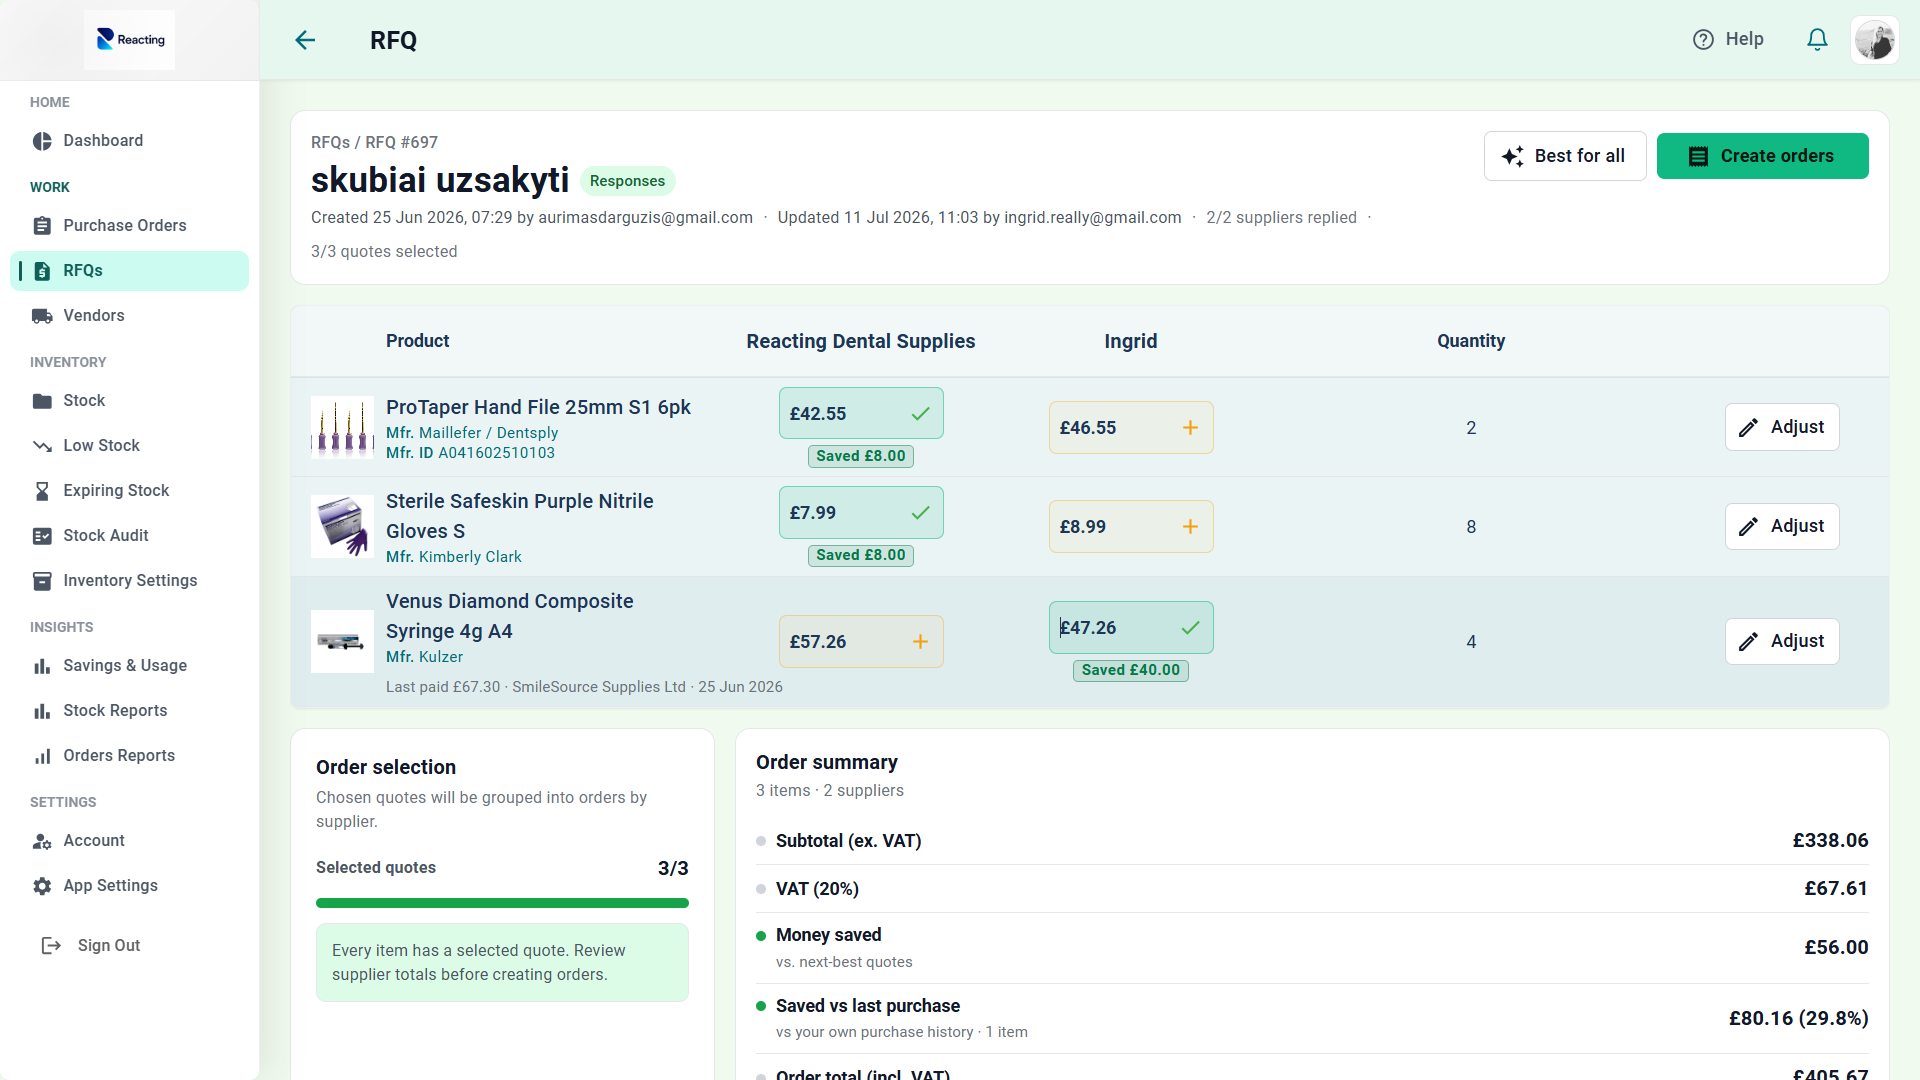
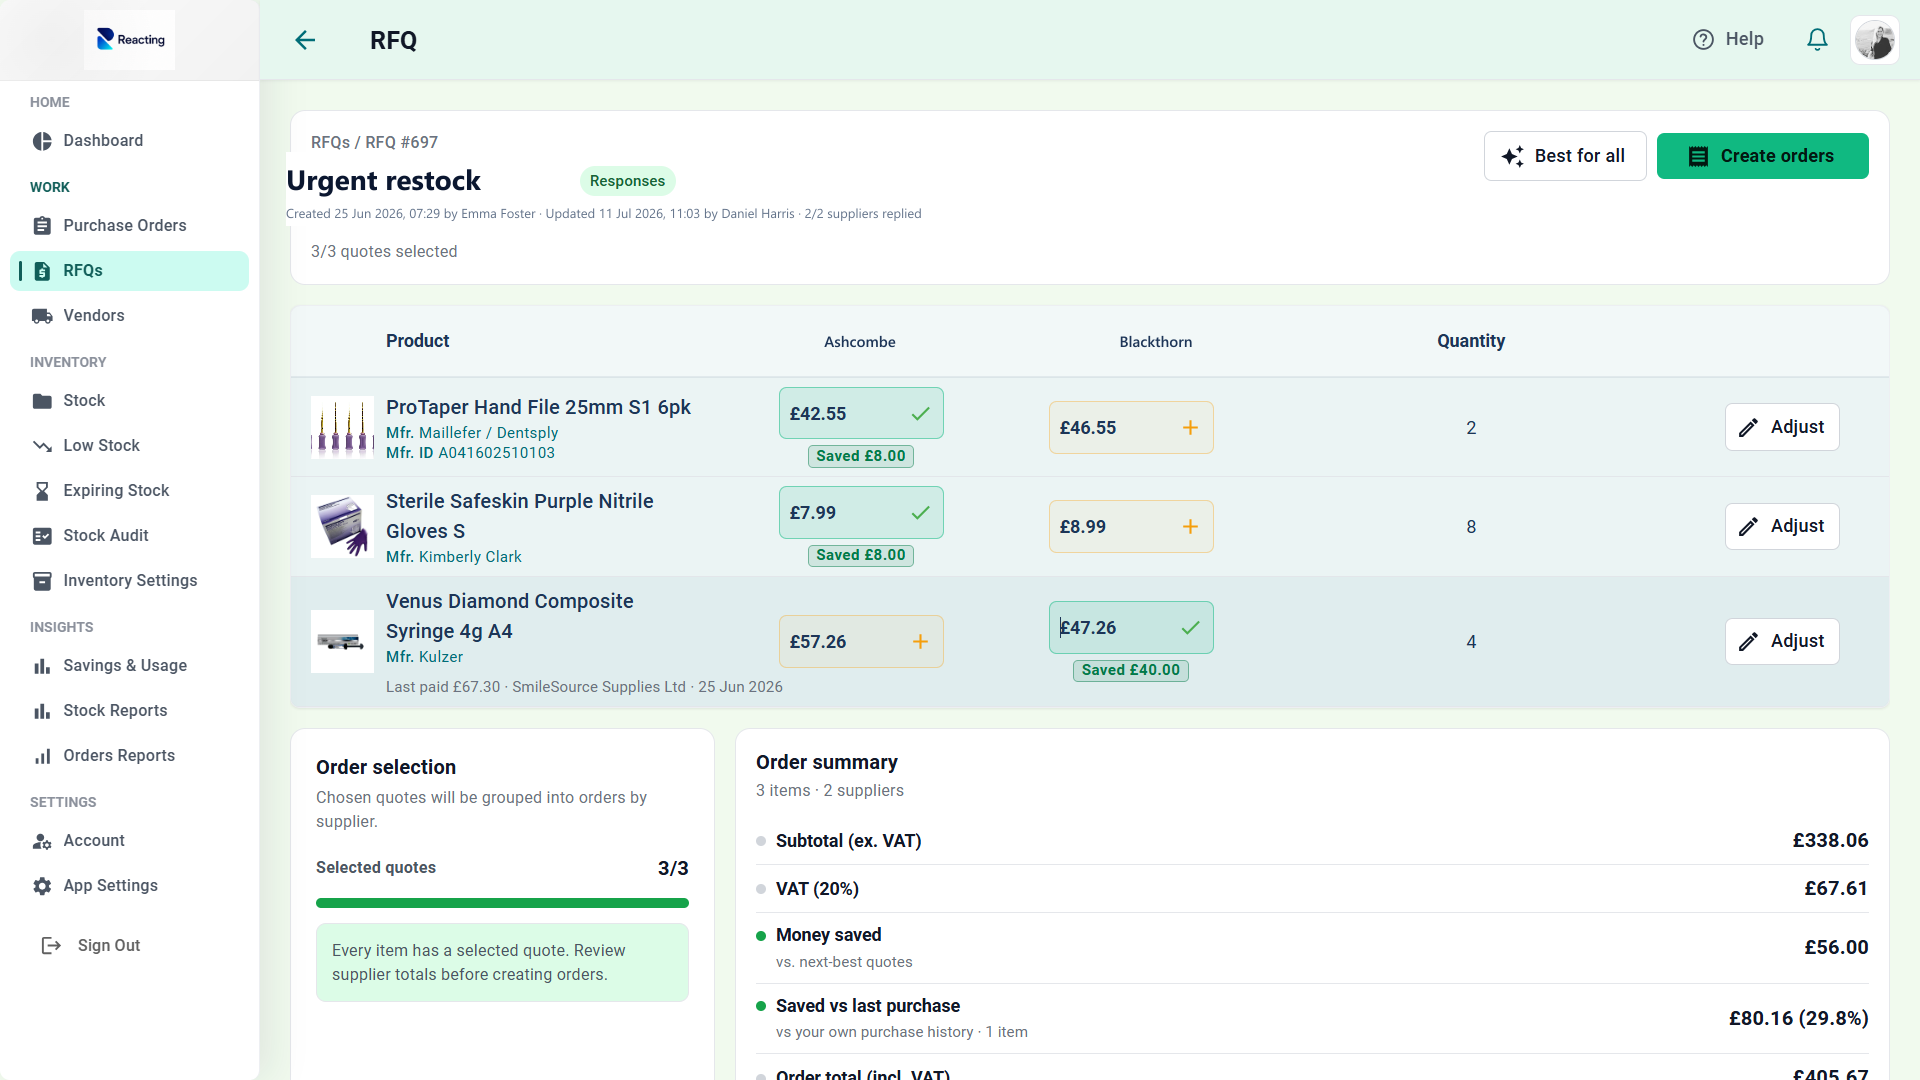
launch: final pre-publish corrections and lead delivery readiness

Changed region(s): [[0.1562, 0.1528, 0.7188, 0.2139], [0.375, 0.3056, 0.5, 0.3361], [0.5625, 0.3056, 0.625, 0.3361]]

diff --git a/src/lib/leads/selftest.ts b/src/lib/leads/selftest.ts
@@ -6,7 +6,14 @@ import assert from "node:assert/strict";
 import { composeLeadEmail, sanitizeHeader } from "./compose.ts";
 import { MIN_SUBMIT_MS } from "./constants.ts";
 import { readLeadConfig, readServerSecret } from "./env.ts";
-import { isHoneypotFilled, isImplausibleSubmitTime, processLead, type LeadDeps } from "./processLead.ts";
+import {
+  isHoneypotFilled,
+  isImplausibleSubmitTime,
+  processLead,
+  type LeadDeps,
+  type LeadResult,
+  type LeadResultCode,
+} from "./processLead.ts";
 import { leadInputSchema } from "./schema.ts";
 
 const now = 1_700_000_000_000;
@@ -54,46 +61,54 @@ const contact = {
   startedAt: now - 5_000,
 };
 
+function failCode(result: LeadResult): LeadResultCode {
+  assert.equal(result.ok, false);
+  if (result.ok) throw new Error("expected failure");
+  return result.code;
+}
+
 async function run() {
   assert.equal((await processLead(bookDemo, deps())).ok, true, "valid book demo");
   assert.equal((await processLead(contact, deps())).ok, true, "valid contact");
 
   assert.equal((await processLead({ ...bookDemo, email: "not-an-email" }, deps())).ok, false);
-  assert.equal((await processLead({ ...bookDemo, firstName: "" }, deps())).code, "validation");
-  assert.equal((await processLead({ ...contact, message: "" }, deps())).code, "validation");
+  assert.equal(failCode(await processLead({ ...bookDemo, firstName: "" }, deps())), "validation");
+  assert.equal(failCode(await processLead({ ...contact, message: "" }, deps())), "validation");
   assert.equal(
-    (await processLead({ ...bookDemo, firstName: "x".repeat(200) }, deps())).code,
+    failCode(await processLead({ ...bookDemo, firstName: "x".repeat(200) }, deps())),
     "validation",
   );
 
   assert.equal(isHoneypotFilled("http://spam.test"), true);
-  assert.equal((await processLead({ ...bookDemo, honeypot: "bot" }, deps())).code, "spam");
+  assert.equal(failCode(await processLead({ ...bookDemo, honeypot: "bot" }, deps())), "spam");
 
   assert.equal(isImplausibleSubmitTime(now - 10, now), true);
   assert.equal(isImplausibleSubmitTime(now - MIN_SUBMIT_MS - 1, now), false);
-  assert.equal((await processLead({ ...bookDemo, startedAt: now }, deps())).code, "spam");
+  assert.equal(failCode(await processLead({ ...bookDemo, startedAt: now }, deps())), "spam");
 
   assert.equal(
-    (await processLead(bookDemo, deps({ verifyTurnstile: async () => false }))).code,
+    failCode(await processLead(bookDemo, deps({ verifyTurnstile: async () => false }))),
     "turnstile",
   );
   assert.equal(
-    (await processLead(bookDemo, deps({ readConfig: () => ({ ok: false, missing: ["RESEND_API_KEY"] }) }))).code,
+    failCode(await processLead(bookDemo, deps({ readConfig: () => ({ ok: false, missing: ["RESEND_API_KEY"] }) }))),
     "config",
   );
   assert.equal(
-    (await processLead(
-      bookDemo,
-      deps({
-        readConfig: () => ({
-          ok: false,
-          missing: ["TURNSTILE_SECRET_KEY"],
+    failCode(
+      await processLead(
+        bookDemo,
+        deps({
+          readConfig: () => ({
+            ok: false,
+            missing: ["TURNSTILE_SECRET_KEY"],
+          }),
         }),
-      }),
-    )).code,
+      ),
+    ),
     "config",
   );
-  assert.equal((await processLead(bookDemo, deps({ sendEmail: async () => ({ ok: false }) }))).code, "delivery");
+  assert.equal(failCode(await processLead(bookDemo, deps({ sendEmail: async () => ({ ok: false }) }))), "delivery");
 
   const names = ["RESEND_API_KEY", "LEAD_FROM", "LEAD_TO", "TURNSTILE_SECRET_KEY"] as const;
   const previousProcess = Object.fromEntries(names.map((name) => [name, process.env[name]]));
@@ -146,7 +161,7 @@ async function run() {
       },
     }),
   );
-  assert.equal(blocked.code, "config");
+  assert.equal(failCode(blocked), "config");
   assert.equal(configBlocked, false);
 
   const order: string[] = [];

diff --git a/src/server.ts b/src/server.ts
@@ -37,9 +37,40 @@ async function normalizeCatastrophicSsrResponse(response: Response): Promise<Res
   });
 }
 
+const APEX_HOST = "reacting.io";
+const CANONICAL_HOST = "www.reacting.io";
+
+function canonicalHostRedirect(request: Request): Response | null {
+  const incoming = new URL(request.url);
+  const host = (request.headers.get("host") ?? incoming.hostname)
+    .split(":")[0]
+    .toLowerCase();
+
+  const isApex = host === APEX_HOST;
+  const isLegacyDe = incoming.pathname === "/de" || incoming.pathname === "/de/";
+
+  if (!isApex && !isLegacyDe) return null;
+
+  const dest = new URL(incoming.href);
+  if (isApex) {
+    dest.protocol = "https:";
+    dest.hostname = CANONICAL_HOST;
+    dest.port = "";
+  }
+  if (isLegacyDe) {
+    dest.pathname = "/";
+  }
+
+  if (dest.href === incoming.href) return null;
+  return Response.redirect(dest.href, 301);
+}
+
 export default {
   async fetch(request: Request, env: unknown, ctx: unknown) {
     try {
+      const redirected = canonicalHostRedirect(request);
+      if (redirected) return redirected;
+
       const handler = await getServerEntry();
       const response = await handler.fetch(request, env, ctx);
       return await normalizeCatastrophicSsrResponse(response);

diff --git a/src/lib/leads/turnstile.ts b/src/lib/leads/turnstile.ts
@@ -1,5 +1,9 @@
+const TURNSTILE_TIMEOUT_MS = 8_000;
+
 export async function verifyTurnstileToken(token: string, secret: string): Promise<boolean> {
   if (!token || !secret) return false;
+  const controller = new AbortController();
+  const timer = setTimeout(() => controller.abort(), TURNSTILE_TIMEOUT_MS);
   try {
     const body = new URLSearchParams();
     body.set("secret", secret);
@@ -7,6 +11,7 @@ export async function verifyTurnstileToken(token: string, secret: string): Promi
     const response = await fetch("https://challenges.cloudflare.com/turnstile/v0/siteverify", {
       method: "POST",
       headers: { "content-type": "application/x-www-form-urlencoded" },
+      signal: controller.signal,
       body,
     });
     if (!response.ok) return false;
@@ -14,5 +19,7 @@ export async function verifyTurnstileToken(token: string, secret: string): Promi
     return payload.success === true;
   } catch {
     return false;
+  } finally {
+    clearTimeout(timer);
   }
 }

diff --git a/src/lib/leads/resend.ts b/src/lib/leads/resend.ts
@@ -1,3 +1,5 @@
+const RESEND_TIMEOUT_MS = 12_000;
+
 export async function sendResendEmail(args: {
   apiKey: string;
   from: string;
@@ -7,6 +9,8 @@ export async function sendResendEmail(args: {
   text: string;
   html: string;
 }): Promise<{ ok: true } | { ok: false }> {
+  const controller = new AbortController();
+  const timer = setTimeout(() => controller.abort(), RESEND_TIMEOUT_MS);
   try {
     const response = await fetch("https://api.resend.com/emails", {
       method: "POST",
@@ -14,6 +18,7 @@ export async function sendResendEmail(args: {
         authorization: `Bearer ${args.apiKey}`,
         "content-type": "application/json",
       },
+      signal: controller.signal,
       body: JSON.stringify({
         from: args.from,
         to: [args.to],
@@ -26,5 +31,7 @@ export async function sendResendEmail(args: {
     return response.ok ? { ok: true } : { ok: false };
   } catch {
     return { ok: false };
+  } finally {
+    clearTimeout(timer);
   }
 }

diff --git a/src/lib/leads/submitLead.ts b/src/lib/leads/submitLead.ts
@@ -6,8 +6,9 @@ import { processLead, type LeadResult } from "./processLead.ts";
  * To/From/source routing are never taken from the visitor.
  * Env/Resend/Turnstile modules are loaded inside the handler so they stay off the client bundle.
  */
-export const submitLead = createServerFn({ method: "POST" }).handler(
-  async ({ data }): Promise<LeadResult> => {
+export const submitLead = createServerFn({ method: "POST" })
+  .validator((data: unknown) => data)
+  .handler(async ({ data }): Promise<LeadResult> => {
     try {
       const [{ readLeadConfig }, { verifyTurnstileToken }, { sendResendEmail }] = await Promise.all([
         import("./env.ts"),
@@ -23,5 +24,4 @@ export const submitLead = createServerFn({ method: "POST" }).handler(
     } catch {
       return { ok: false, code: "unavailable" };
     }
-  },
-);
+  });

diff --git a/src/components/resources/supply-request-faq.ts b/src/components/resources/supply-request-faq.ts
@@ -17,7 +17,7 @@ export const supplyRequestFaqs = [
     a: "Yes. Staff may request 3; the person responsible for ordering may buy a pack of 5. Both facts should stay on the row. The workbook does not force the two quantities to match.",
   },
   {
-    q: "Does staff need to know the supplier before requesting something?",
+    q: "Do staff need to know the supplier before requesting something?",
     a: "No. Preferred supplier is optional. A request can be recorded before anyone decides where it will be bought.",
   },
   {
